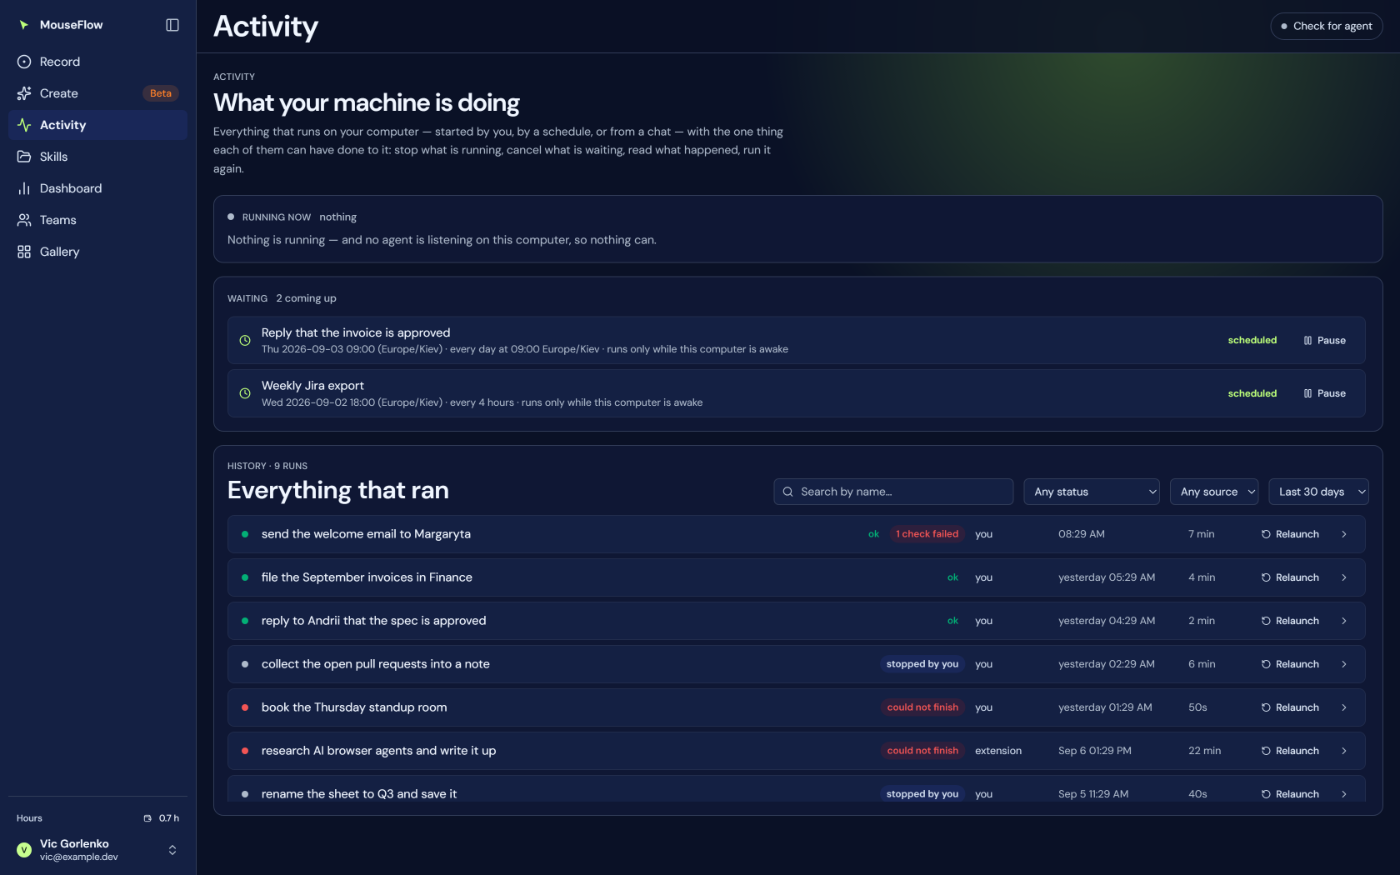
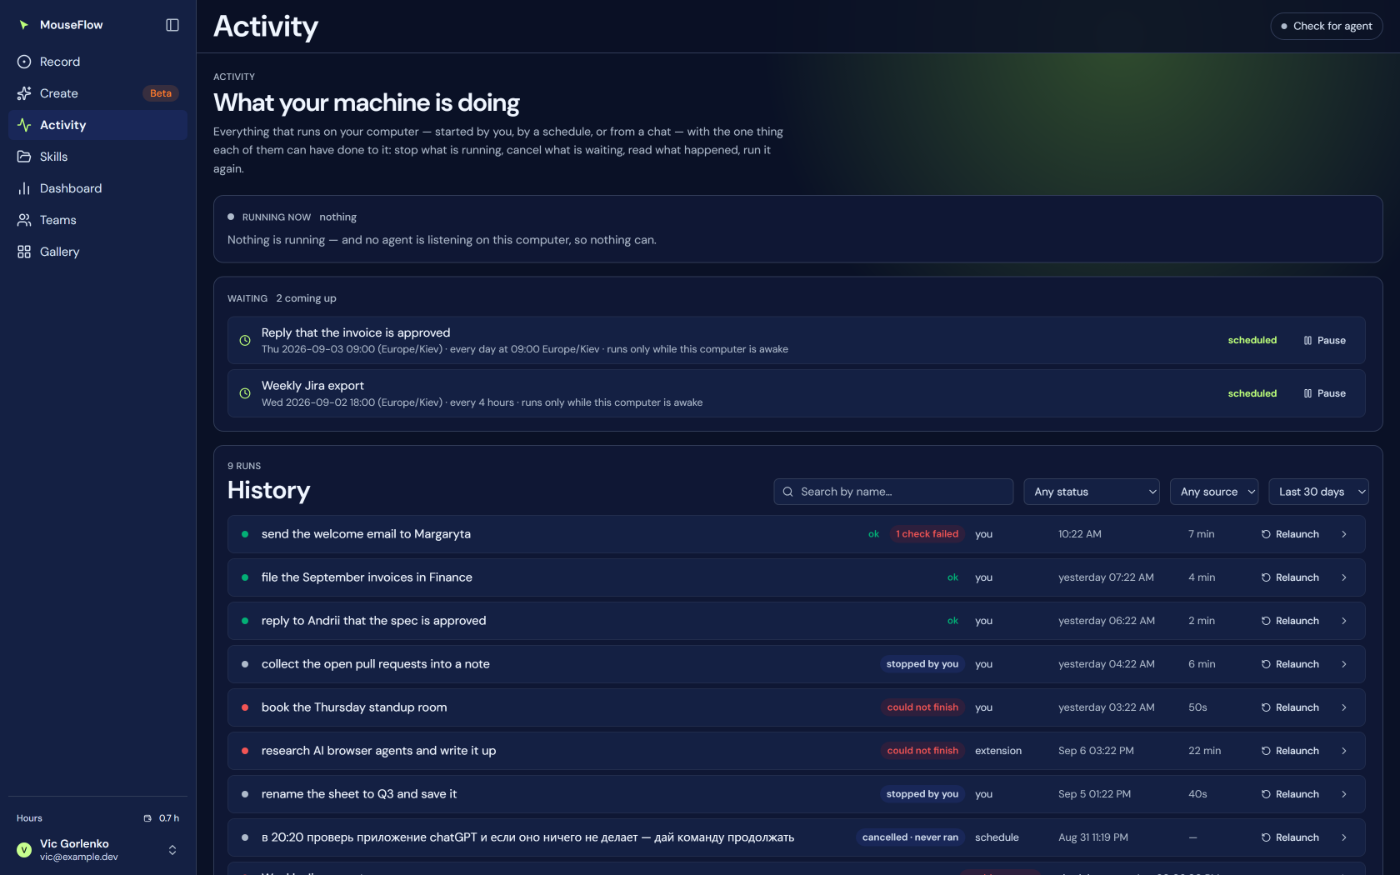
Activity: the history is "History", ten rows deep, and keeps its ceiling when a row opens
Opening a row dropped the window's cap outright (`maxHeight: open ? undefined`) so the steps would have
room, and instead the whole thirty-day history - eighty-five rows on the machine that found it - poured down
the page and the card stopped being a card. The cap now holds always; the window is ten rows instead of
seven so what opens has somewhere to be; and opening a row scrolls it into view with `block: 'nearest'`, the
least movement that shows it, inside the list rather than the page.

The bottom card is titled "History" - the count moves up to the eyebrow, where the Skills page keeps it.

diff --git a/web/src/features/activity/ActivityView.tsx b/web/src/features/activity/ActivityView.tsx
@@ -50,6 +50,11 @@ const LIST_ROW = 2.75;   // rem — 44px measured on this page's single-line row
 const LIST_GAP = 0.375;  // rem — gap-1.5, as on Skills
 const rowsToRem = (n: number) => n * LIST_ROW + (n - 1) * LIST_GAP;
 const LIST_HEIGHT = `${rowsToRem(7)}rem`;
+/* У ИСТОРИИ ОКНО ГЛУБЖЕ - десять строк. Её строка раскрывается, и раскрытое (шаги, вердикты, кадры) должно
+ * помещаться в то же окно, а не выталкивать его: раньше открытая строка снимала потолок совсем (`open ?
+ * undefined`), и вместо блока на семь строк на страницу выливались все восемьдесят пять. Потолок теперь
+ * держится всегда, а окно глубже - чтобы под раскрытым было место. */
+const HISTORY_HEIGHT = `${rowsToRem(10)}rem`;
 
 /* Та же плашка, что у строк «Ready to become a skill»: скруглённая, с тонким ободком, на surface-card2. */
 const ROW = 'rounded-lg border-stroke/45 border bg-surface-card2 px-3 py-2';
@@ -336,9 +341,11 @@ export const ActivityView = () => {
         <div className="mb-3 flex flex-wrap items-end gap-x-3 gap-y-3">
           <div className="min-w-0 flex-1 basis-full lg:basis-auto">
             <Typography variant="span" className={cn(LABEL, 'block')}>
-              History · {shown.length === entries.length ? `${entries.length} run${entries.length === 1 ? '' : 's'}` : `${shown.length} of ${entries.length}`}
+              {shown.length === entries.length
+                ? `${entries.length} run${entries.length === 1 ? '' : 's'}`
+                : `${shown.length} of ${entries.length} runs`}
             </Typography>
-            <Typography variant="h2" weight="semibold" className="mt-0.5 text-[1.35rem]">Everything that ran</Typography>
+            <Typography variant="h2" weight="semibold" className="mt-0.5 text-[1.35rem]">History</Typography>
           </div>
           <div className="relative min-w-[12rem] flex-1 sm:max-w-[18rem]">
             <Search className="absolute left-2.5 top-1/2 size-3.5 -translate-y-1/2 text-ink-inactive" />
@@ -367,7 +374,7 @@ export const ActivityView = () => {
             {entries.length ? 'Nothing matches these filters.' : 'Nothing has run yet.'}
           </Typography>
         ) : (
-          <ul className="flex flex-col gap-1.5 overflow-y-auto pe-1" style={{ maxHeight: open ? undefined : LIST_HEIGHT }}>
+          <ul className="flex flex-col gap-1.5 overflow-y-auto pe-1" style={{ maxHeight: HISTORY_HEIGHT }}>
             {shown.map((e) => {
               const isOpen = open === e.id;
               const chips = e.kind === 'run' ? runChips(e.run) : [jobChip(e.job)];
@@ -382,7 +389,11 @@ export const ActivityView = () => {
                   <div
                     onClick={(ev) => {
                       if ((ev.target as HTMLElement).closest('button,a')) return;
+                      const row = (ev.currentTarget as HTMLElement).parentElement;
                       setOpen(isOpen ? null : e.id);
+                      /* Раскрытая строка не должна уезжать под нижнюю кромку окна: 'nearest' двигает
+                       * только ближайший скроллер и ровно настолько, насколько нужно, чтобы её видеть. */
+                      if (!isOpen && row) requestAnimationFrame(() => row.scrollIntoView({ block: 'nearest' }));
                     }}
                     className="grid cursor-pointer grid-cols-[1rem_minmax(0,1fr)_auto_5.5rem_9rem_4rem_auto_1.25rem] items-center gap-3"
                   >

diff --git a/docs/product/26-activity.md b/docs/product/26-activity.md
@@ -18,9 +18,20 @@ answered the question whole, and none had a button beside the thing being asked 
 The first version drew the history as a full-width table, and on a 1920-pixel screen a run's goal stretched
 across most of it; the page read as a stranger's. It is now three cards of the same shape as the library and
 *Ready to become a skill*: each in its own border, a gap between them, rows as the same rounded plates,
-**seven rows tall and then a scrollbar** — the same row height (58.3 px, measured) and gap the Skills page
-uses. The goal is capped at about seventy characters and truncated; the whole of it is in the tooltip and
-in the expanded row.
+**a window and then a scrollbar** — the Skills page's gap (`gap-1.5`) with this page's own measured row
+height (44 px; a single-line row here is shorter than a library row, and borrowing the library's 58.3 px
+fitted eight rows into a window meant for seven). *Running now* and *Waiting* are seven rows tall;
+**History is ten**, because its rows open.
+
+The goal is capped at about seventy characters and truncated; the whole of it is in the tooltip and in the
+expanded row.
+
+**The window keeps its ceiling when a row opens.** It did not at first: an open row dropped the cap
+(`maxHeight: open ? undefined`) so the detail would have room, and the whole of a thirty-day history —
+eighty-five rows on the machine that found it — poured down the page, and the card stopped being a card.
+The cap now holds always, the window is ten rows deep so the opened detail has somewhere to be, and opening
+a row scrolls it into view with `block: 'nearest'` — the least movement that makes it visible, in the inner
+scroller rather than the page.
 
 **Filters are three independent axes**, not one segmented control: *status* (any / ok / ok · a check failed
 / could not finish / stopped by you / cancelled · never ran / set aside), *source* (you / schedule / chat /
